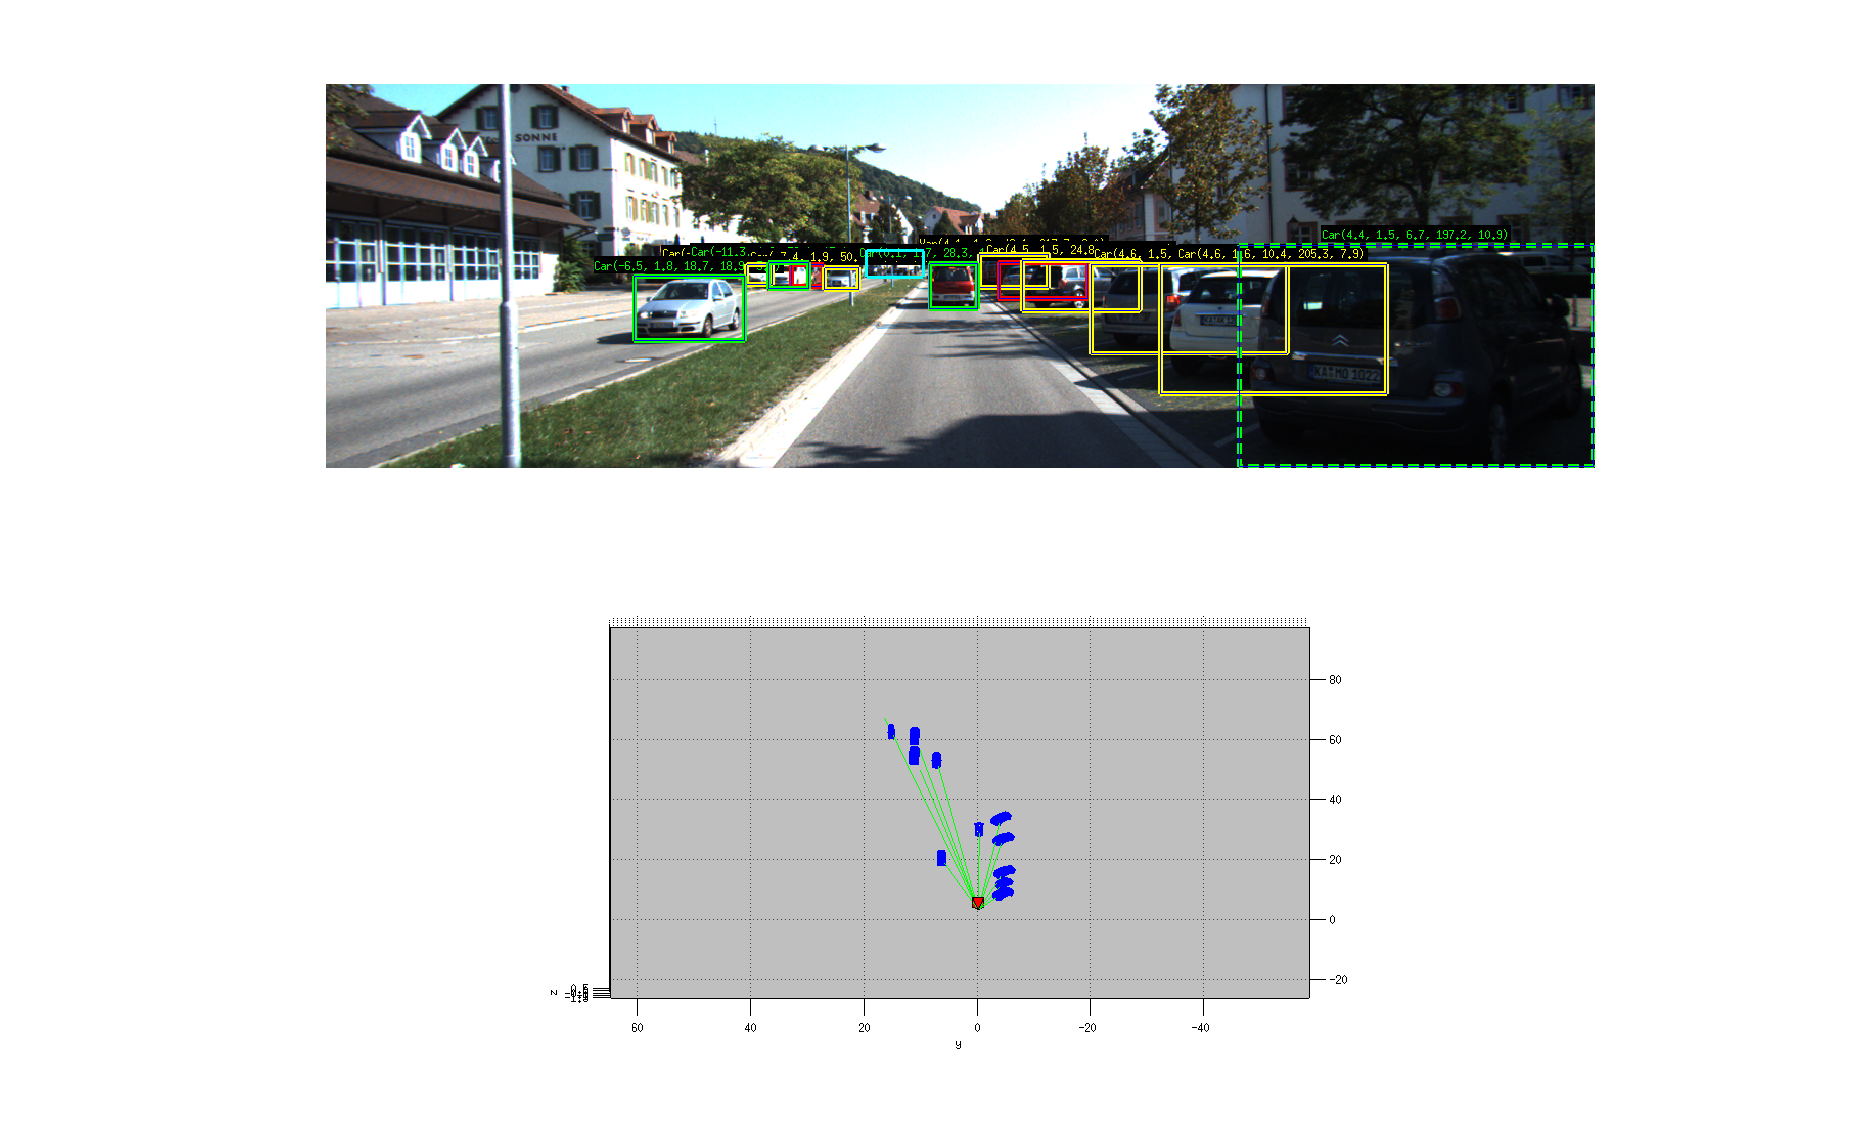
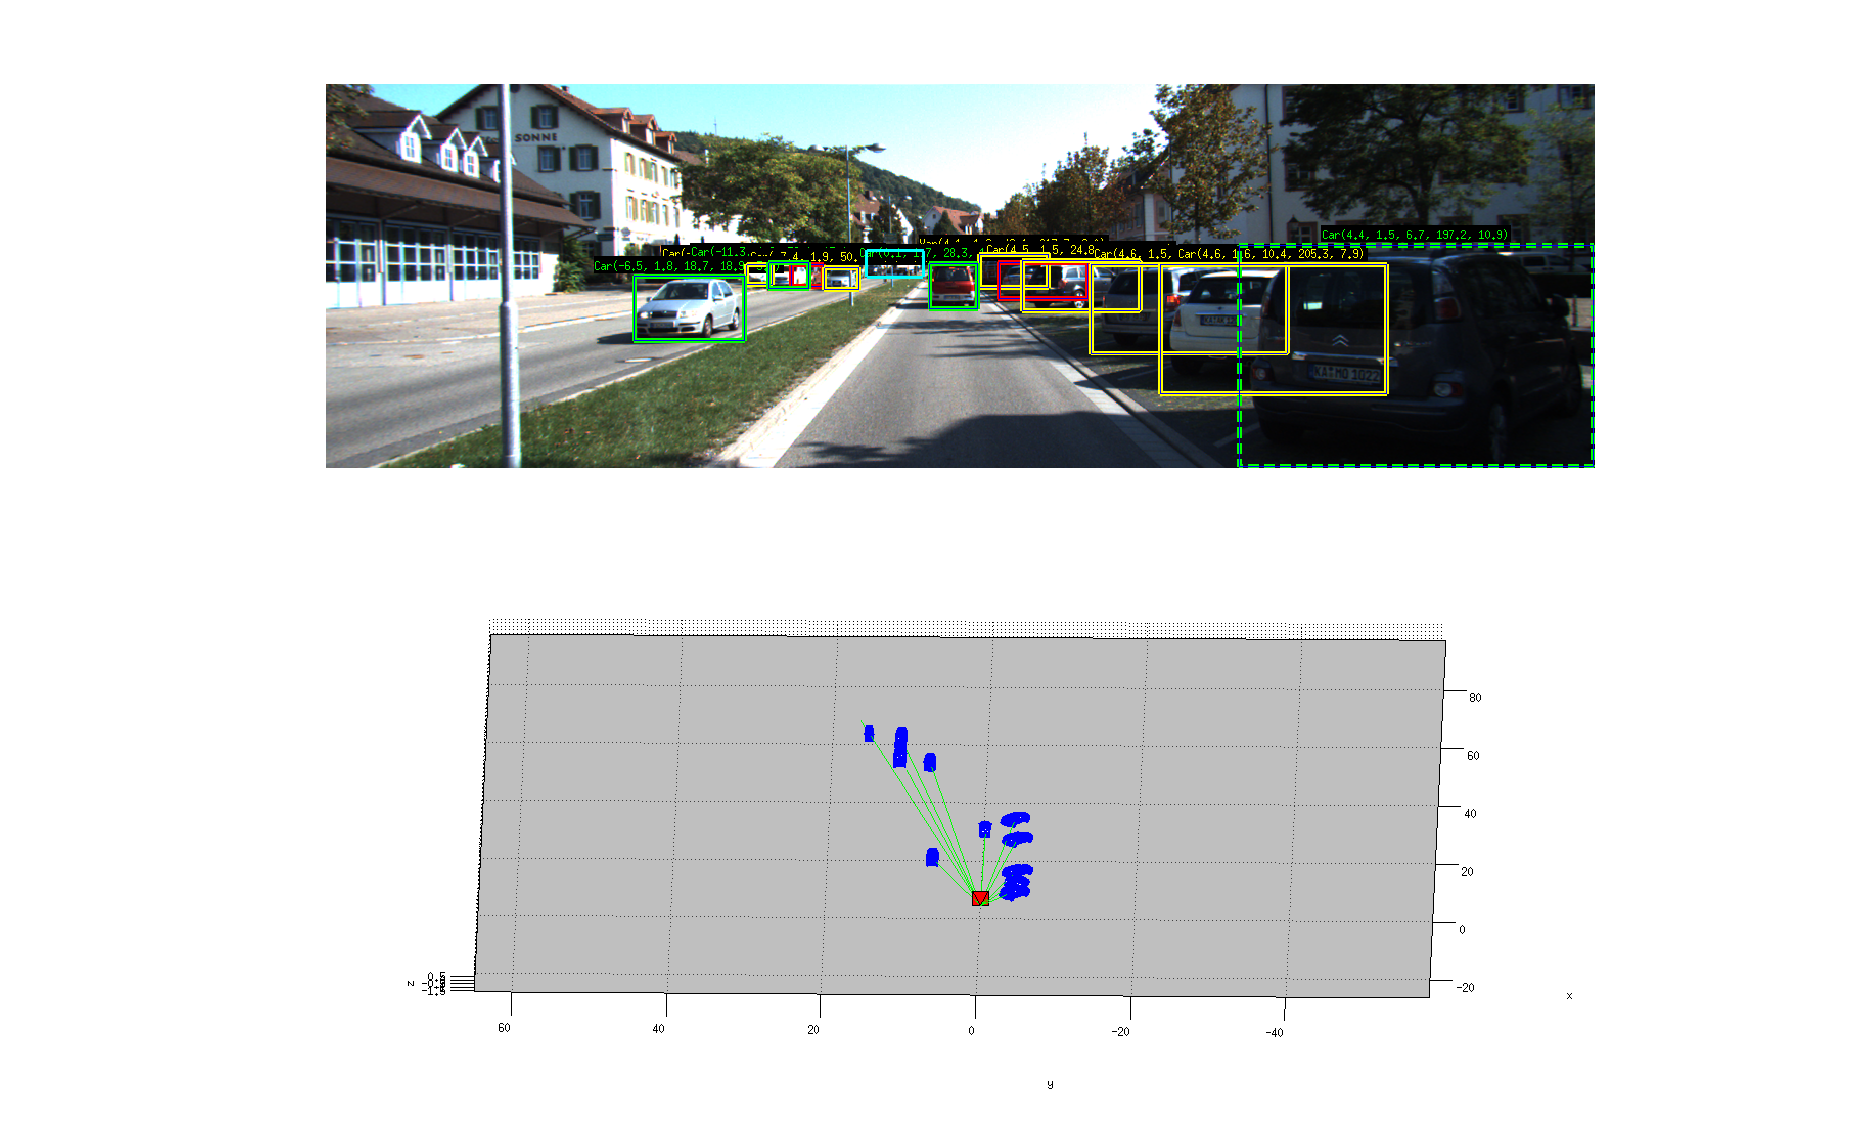
consider truncation in backprojection

Changed region(s): [[0.2458, 0.5308, 0.7989, 0.9054], [0.4609, 0.6244, 0.5531, 0.8118]]

diff --git a/KITTI/show_backprojection.m b/KITTI/show_backprojection.m
@@ -78,14 +78,29 @@ for img_idx = 1:nimages-1
     if strcmp(object.type, 'Car') == 1
         cad_index = find_closest_cad(cads, object);
         x3d = compute_3d_points(cads(cad_index).vertices, object);
+        if object.truncation == 0
+            width = object.x2 - object.x1;
+            height = object.y2 - object.y1;
+        else
+            x2d = projectToImage(x3d, P);
+            width = max(x2d(1,:)) - min(x2d(1,:));
+            height = max(x2d(2,:)) - min(x2d(2,:));
+        end
         face = cads(cad_index).faces;
         
         tmp = face + size(Vgt,2);
         Fgt = [Fgt; tmp];        
         Vgt = [Vgt x3d];
         
-        % get the bounding box center
-        c = [(object.x1 + object.x2)/2; (object.y1+object.y2)/2; 1];
+        if object.truncation == 0
+            % get the bounding box center
+            c = [(object.x1 + object.x2)/2; (object.y1+object.y2)/2; 1];
+        else
+            % use the object center instead of bounding box center
+            x3d = compute_3d_points_noscaling([0 0 0], object);
+            x2d = projectToImage(x3d, P);
+            c = [x2d; 1];
+        end
         % backprojection
         X = pinv(P) * c;
         X = X ./ X(4);
@@ -113,8 +128,7 @@ for img_idx = 1:nimages-1
         ub = [max(data.l) max(data.h) max(data.w) x(4)+15*pi/180 max(data.distance)];
         % optimize
         options = optimset('Algorithm', 'interior-point');
-        x = fmincon(@(x)compute_error_distance(x, vertices, C, X, P, Pv2c, ...
-            object.x2-object.x1, object.y2-object.y1),...
+        x = fmincon(@(x)compute_error_distance(x, vertices, C, X, P, Pv2c, width, height),...
             x, [], [], [], [], lb, ub, [], options);
         disp(x);
         disp([object.l object.h object.w object.ry]);

diff --git a/Exemplar_DPM/display_result_exemplar_dpms.m b/Exemplar_DPM/display_result_exemplar_dpms.m
@@ -1,0 +1,65 @@
+function display_result_exemplar_dpms
+
+cls = 'car';
+threshold = -0.9;
+
+% read detection results
+filename = sprintf('kitti_train/%s_test.mat', cls);
+object = load(filename);
+dets = object.dets;
+fprintf('load detection done\n');
+
+% read ids of validation images
+object = load('kitti_ids.mat');
+ids = object.ids_val;
+N = numel(ids);
+
+% KITTI path
+globals;
+root_dir = KITTIroot;
+data_set = 'training';
+cam = 2;
+image_dir = fullfile(root_dir, [data_set '/image_' num2str(cam)]);
+
+figure;
+ind_plot = 1;
+for i = 1:N
+    img_idx = ids(i);    
+    det = dets{img_idx + 1};
+    
+    if isempty(det) == 1
+        fprintf('no detection for image %d\n', img_idx);
+        continue;
+    else
+        I = nms(det, 0.5);
+        det = det(I, :);         
+    end
+    num = size(det, 1);
+    
+    file_img = sprintf('%s/%06d.png',image_dir, img_idx);
+    I = imread(file_img);
+    
+    subplot(4, 2, ind_plot);
+    imshow(I);
+    hold on;
+
+    til = sprintf('%d', i);
+    for k = 1:num
+        if det(k,6) > threshold || k <= 5
+            % get predicted bounding box
+            bbox_pr = det(k,1:4);
+            bbox_draw = [bbox_pr(1), bbox_pr(2), bbox_pr(3)-bbox_pr(1), bbox_pr(4)-bbox_pr(2)];
+            rectangle('Position', bbox_draw, 'EdgeColor', 'g', 'LineWidth', 2);            
+            text(bbox_pr(1), bbox_pr(2), num2str(k), 'FontSize', 16, 'BackgroundColor', 'r');
+            til = sprintf('%s, s%d=%.2f', til, k, det(k,6));   
+        end
+    end
+    title(til);
+    subplot(4, 2, ind_plot);
+    hold off;
+    ind_plot = ind_plot + 1;
+    if ind_plot > 8
+        ind_plot = 1;
+        pause;
+    end
+end

diff --git a/KITTI/compute_3d_points_noscaling.m b/KITTI/compute_3d_points_noscaling.m
@@ -1,0 +1,20 @@
+% compute the 3D point locations of a CAD model
+function x3d = compute_3d_points_noscaling(vertices, object)
+
+x3d = vertices';
+
+% rotation matrix to transform coordinate systems
+Rx = [1 0 0; 0 0 -1; 0 1 0];
+Ry = [cos(-pi/2) 0 sin(-pi/2); 0 1 0; -sin(-pi/2) 0 cos(-pi/2)];
+x3d = Ry*Rx*x3d;
+
+% compute rotational matrix around yaw axis
+R = [+cos(object.ry), 0, +sin(object.ry);
+                   0, 1,               0;
+     -sin(object.ry), 0, +cos(object.ry)];
+
+% rotate and translate 3D bounding box
+x3d = R*x3d;
+x3d(1,:) = x3d(1,:) + object.t(1);
+x3d(2,:) = x3d(2,:) + object.t(2) - object.h/2;
+x3d(3,:) = x3d(3,:) + object.t(3);

diff --git a/3rd_party/voc-release4.01/display_result_kitti.m b/3rd_party/voc-release4.01/display_result_kitti.m
@@ -42,8 +42,6 @@ for i = 1:N
         bbox_draw = [bbox_pr(1), bbox_pr(2), bbox_pr(3)-bbox_pr(1), bbox_pr(4)-bbox_pr(2)];
         rectangle('Position', bbox_draw, 'EdgeColor', 'g', 'LineWidth',2);
         text(bbox_pr(1), bbox_pr(2), num2str(k), 'FontSize', 16, 'BackgroundColor', 'r');
-        
-
         til = sprintf('%s, s%d=%.2f', til, k, det(k,6));        
     end
     title(til);
